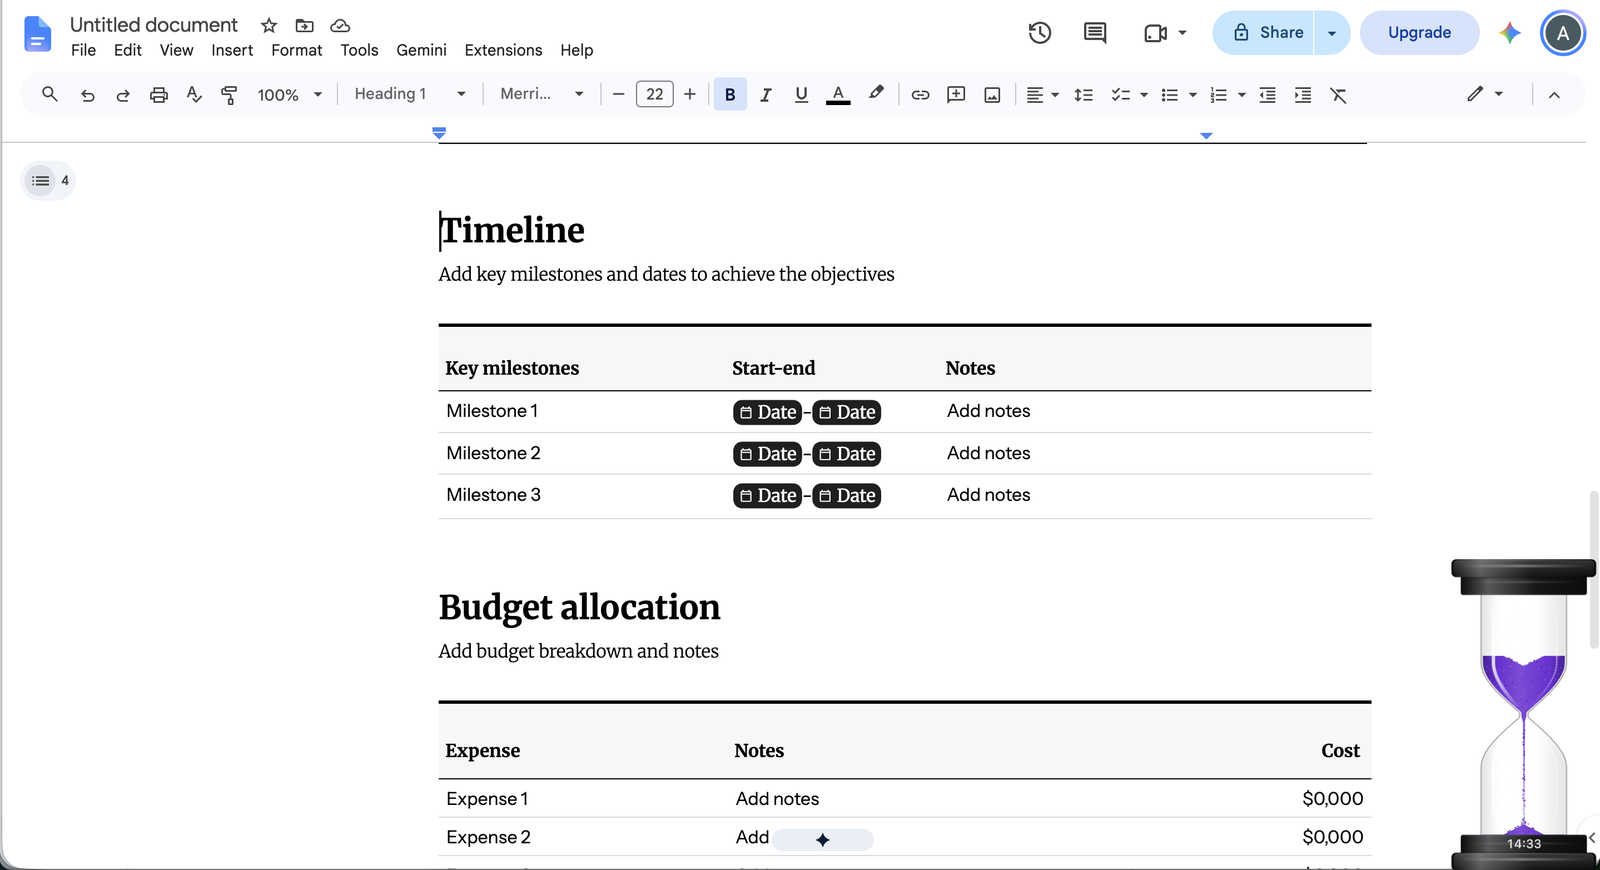
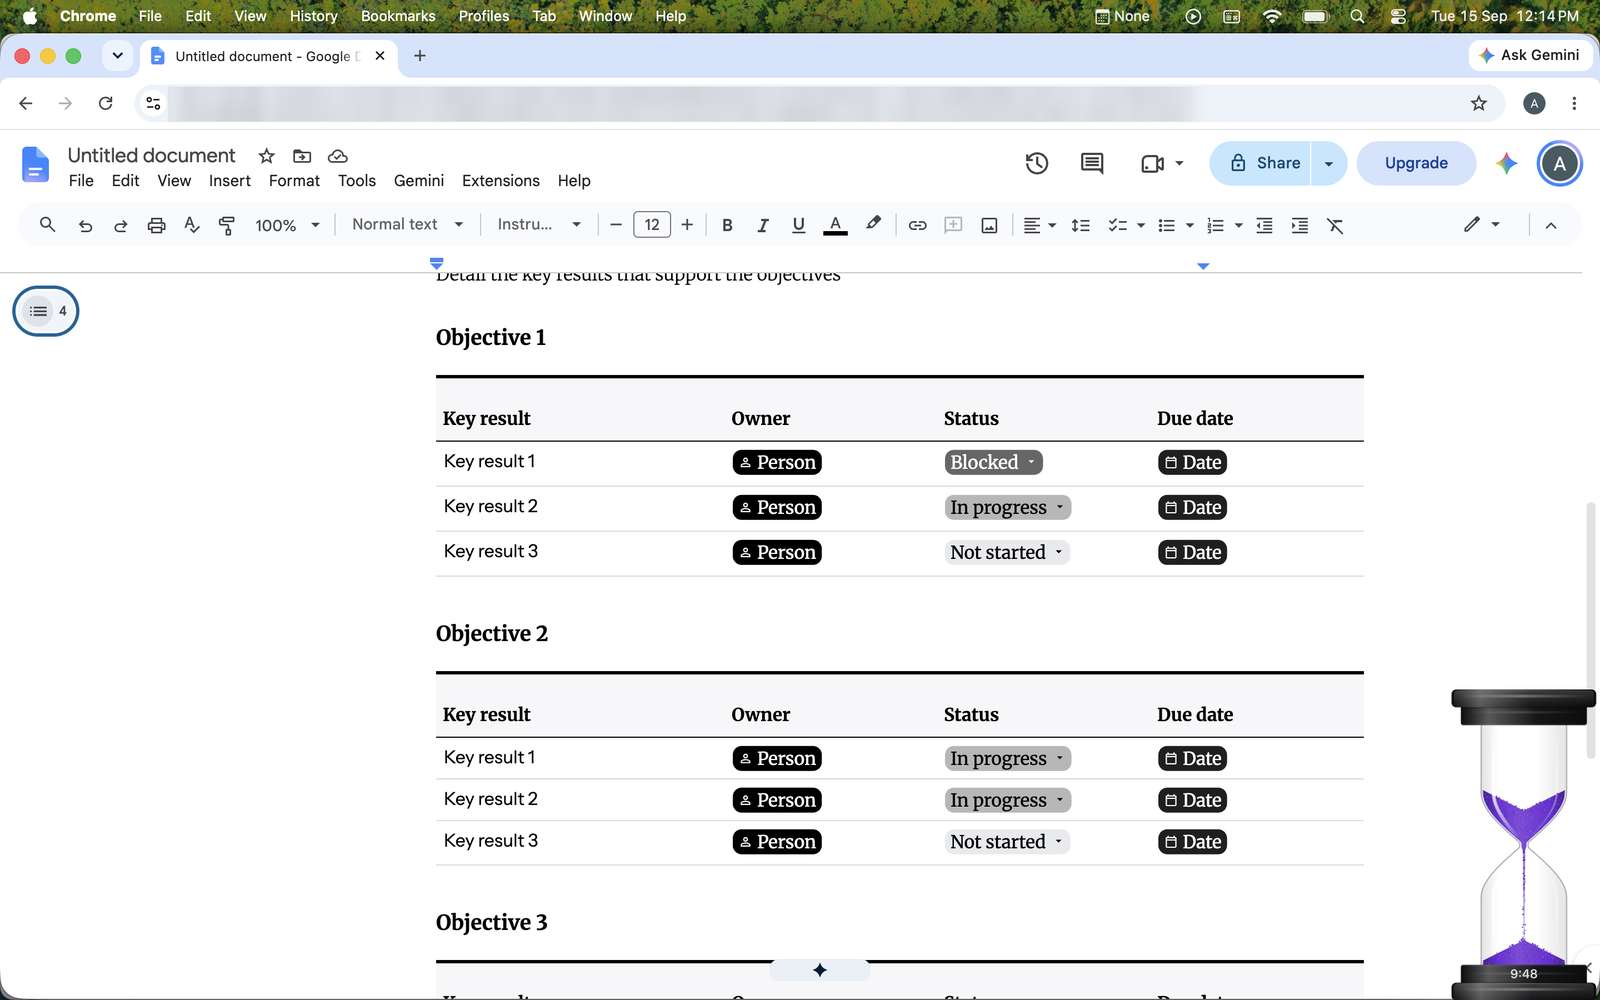
README: use a full-screen shot of the timer on a Mac
Shows the macOS menu bar and browser for context, with the document's link blurred.

Claude-Session: https://claude.ai/code/session_012U5mDf2nLonHv5vhoXTLWQ

diff --git a/README.md b/README.md
@@ -19,7 +19,7 @@ The timer has no window of its own and no icon in the Dock — it simply appears
 desktop, sitting above whatever you are working in.
 
 <p align="center">
-  <img src="docs/on-a-desktop.png" width="720" alt="Sand Timer standing in the bottom-right corner of the screen, next to a document being edited, with 14:33 left on its base">
+  <img src="docs/on-a-desktop.png" width="720" alt="A Mac screen with a document open in Chrome and Sand Timer standing in the bottom-right corner, with 9:48 left on its base">
 </p>
 
 ## Using it
